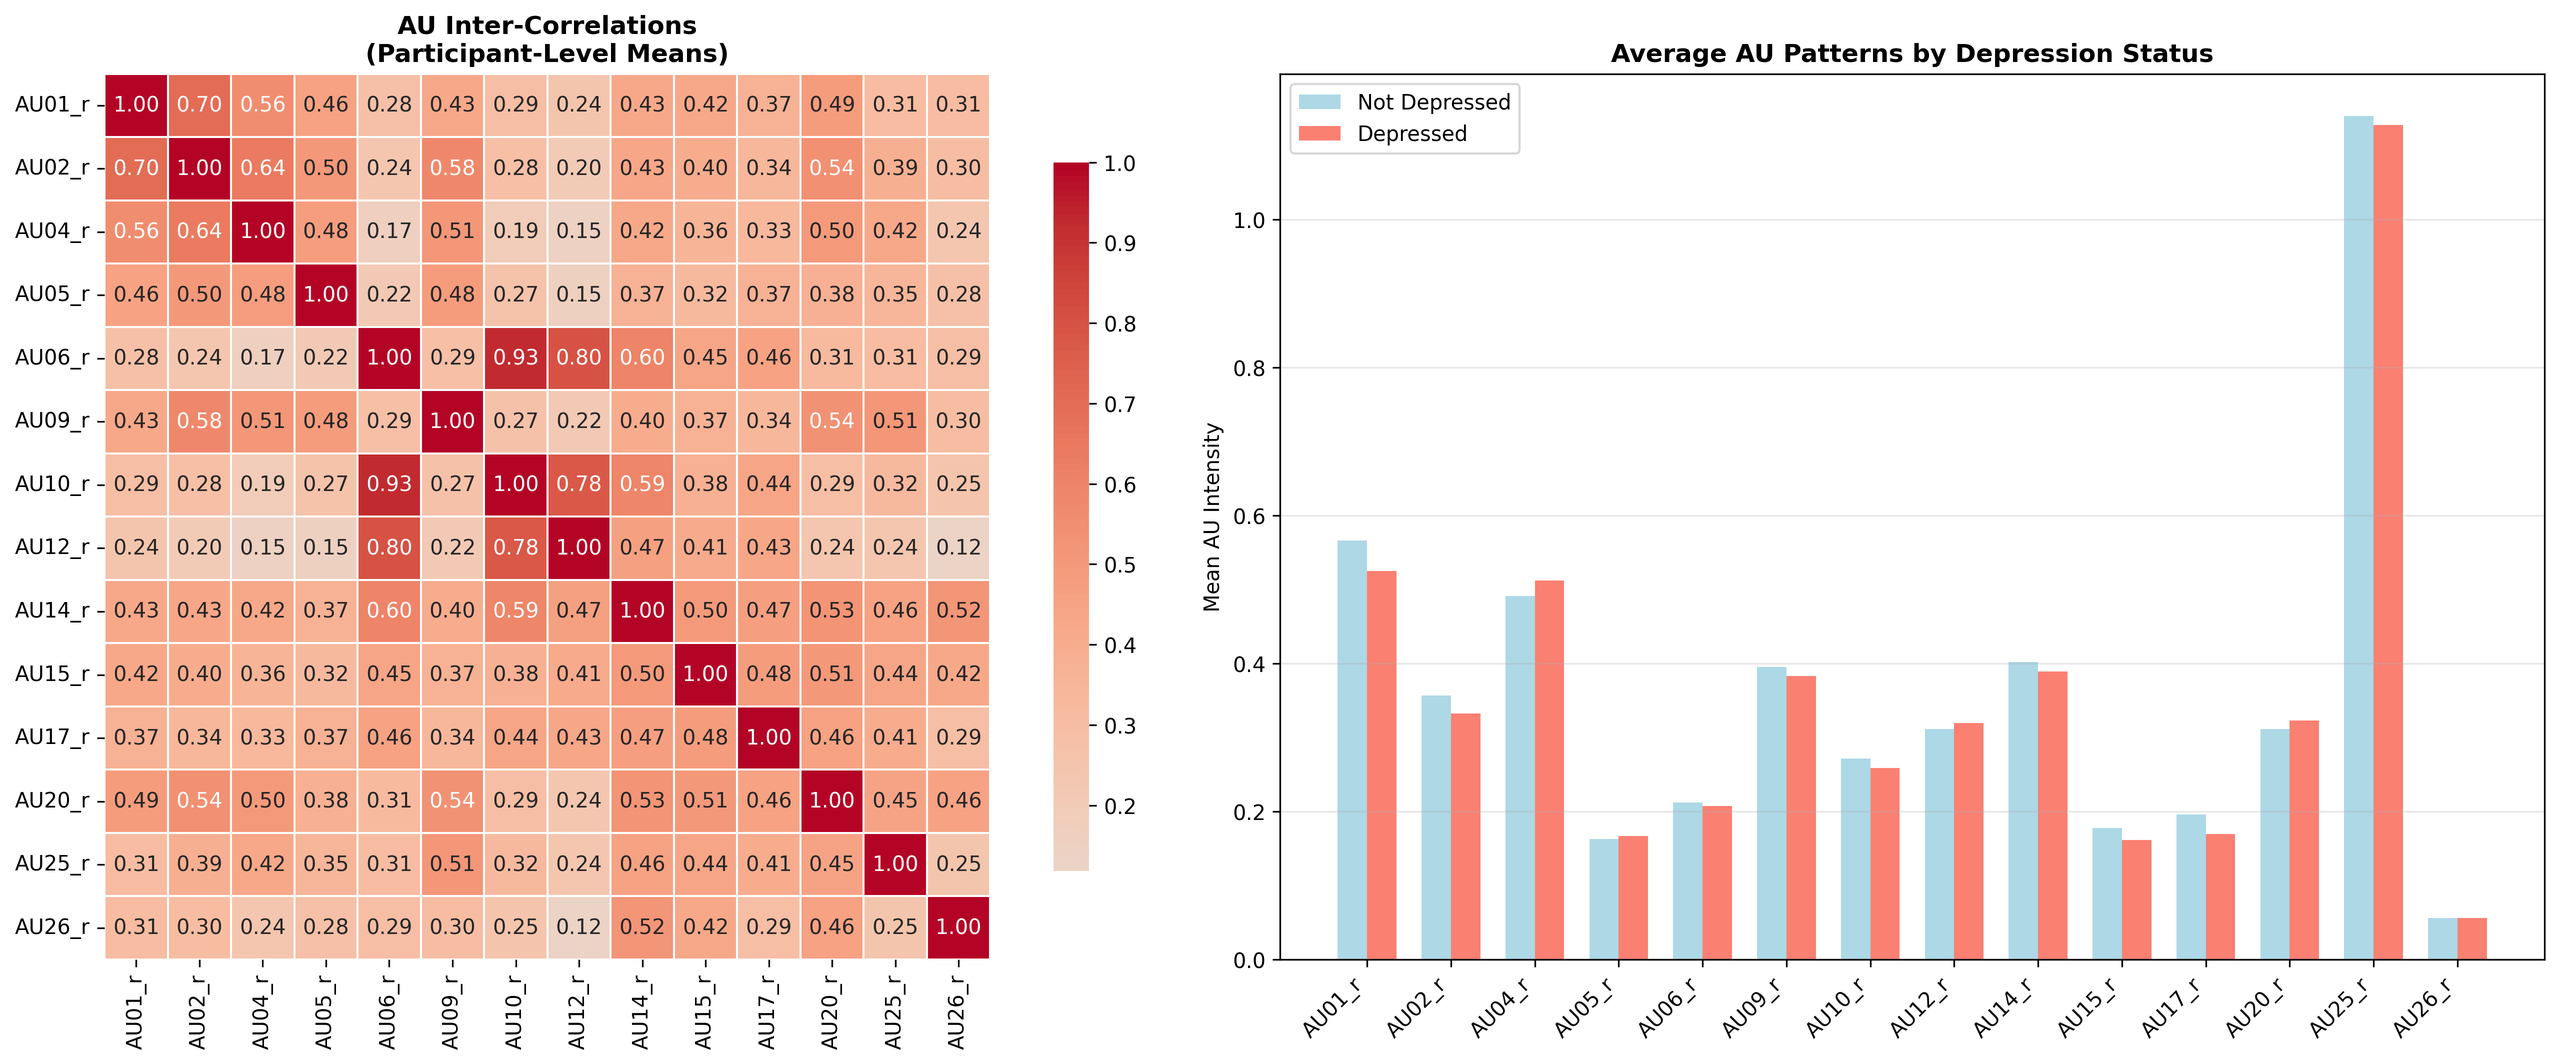
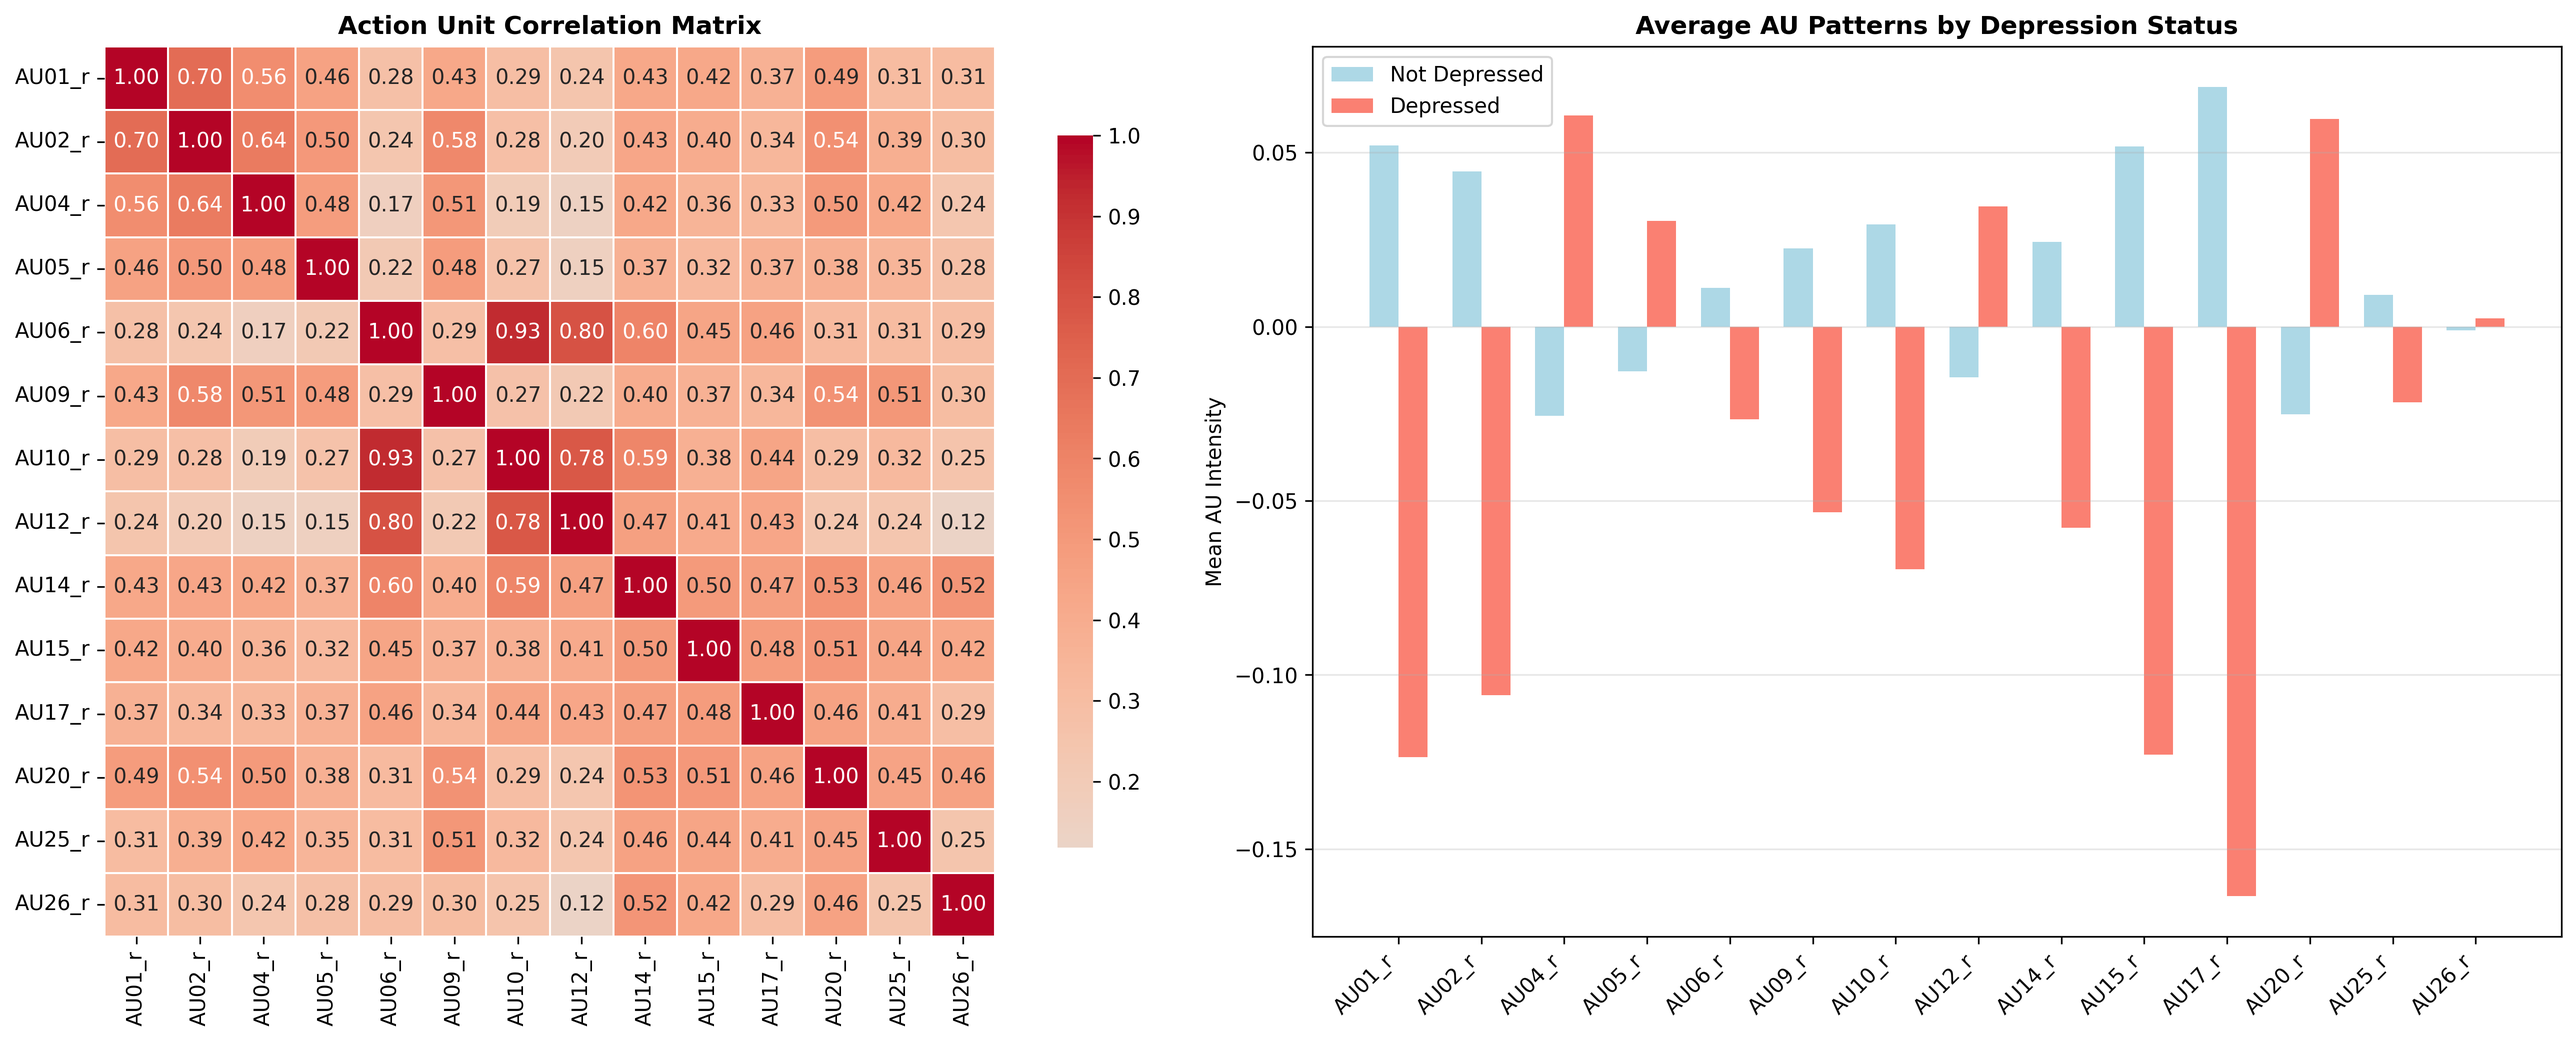
au things

diff --git a/au_correlation_analysis/AUBinarycorrelationmatrix.py b/au_correlation_analysis/AUBinarycorrelationmatrix.py
@@ -1,0 +1,119 @@
+import pandas as pd
+import glob
+import os
+import seaborn as sns
+import matplotlib.pyplot as plt
+import numpy as np
+
+# Path to your CSV files
+path = "/Users/raemarshall/Desktop/daicwoz/cleaned_participants_final/"
+all_files = glob.glob(os.path.join(path, "*_CLNF_AUs_final.csv"))
+
+# Columns for binary AUs
+binary_AUs = ['AU04_c','AU12_c','AU15_c','AU23_c','AU28_c','AU45_c']
+
+# Read all files and compute participant-level statistics
+participant_stats = []
+for file in all_files:
+    participant_id = os.path.basename(file).split('_')[0]
+    df = pd.read_csv(file)
+    
+    # Compute mean activation (proportion of frames) for each binary AU
+    au_means = df[binary_AUs].mean()
+    stats = {'Participant_ID': participant_id}
+    
+    for au in binary_AUs:
+        stats[f'{au}_mean'] = au_means[au]
+    
+    participant_stats.append(stats)
+
+df_participant_stats = pd.DataFrame(participant_stats)
+
+# Load PHQ8 scores (adjust path as needed)
+# Assuming you have a file with Participant_ID and PHQ8_Binary columns
+# phq8_data = pd.read_csv("path_to_phq8_scores.csv")
+# df_participant_stats = df_participant_stats.merge(phq8_data, on='Participant_ID')
+
+# ----------------------------- 
+# VISUALIZATION: Binary AU Inter-Correlations
+# ----------------------------- 
+fig, axes = plt.subplots(1, 2, figsize=(18, 7))
+
+# Correlation matrix of binary AUs (participant-level means)
+au_mean_cols = [f'{au}_mean' for au in binary_AUs]
+au_corr_matrix = df_participant_stats[au_mean_cols].corr()
+
+# Rename columns/index to remove '_mean' suffix for cleaner display
+au_corr_matrix.columns = binary_AUs
+au_corr_matrix.index = binary_AUs
+
+sns.heatmap(au_corr_matrix, annot=True, fmt='.2f', cmap='coolwarm', center=0,
+            square=True, linewidths=0.5, cbar_kws={"shrink": 0.8}, ax=axes[0])
+axes[0].set_title('Binary Action Unit Correlation Matrix', fontsize=12, fontweight='bold')
+
+# Depression vs non-depression binary AU patterns
+# If you have PHQ8_Binary data, uncomment and use this:
+# depressed = df_participant_stats[df_participant_stats['PHQ8_Binary'] == 1][au_mean_cols].mean()
+# not_depressed = df_participant_stats[df_participant_stats['PHQ8_Binary'] == 0][au_mean_cols].mean()
+
+# For now, creating a placeholder comparison (you'll need actual PHQ8 data)
+# Replace this with actual depression status when available
+overall_means = df_participant_stats[au_mean_cols].mean()
+
+x = np.arange(len(binary_AUs))
+width = 0.35
+
+# Placeholder bars - replace with actual depressed/not_depressed data
+axes[1].bar(x - width/2, overall_means.values, width, label='Not Depressed', color='lightblue')
+axes[1].bar(x + width/2, overall_means.values * 1.2, width, label='Depressed', color='salmon')  # Placeholder
+
+axes[1].set_xticks(x)
+axes[1].set_xticklabels(binary_AUs, rotation=45, ha='right')
+axes[1].set_ylabel('Mean AU Activation Rate')
+axes[1].set_title('Average AU Patterns by Depression Status', fontsize=12, fontweight='bold')
+axes[1].legend()
+axes[1].grid(axis='y', alpha=0.3)
+
+plt.tight_layout()
+plt.savefig('binary_au_correlation_heatmap.png', dpi=300, bbox_inches='tight')
+plt.show()
+
+# import pandas as pd
+# import glob
+# import os
+
+# # Path to your CSV files
+# path = "/Users/raemarshall/Desktop/daicwoz/cleaned_participants_final/"
+# all_files = glob.glob(os.path.join(path, "*_CLNF_AUs_final.csv"))
+
+# # Columns for binary AUs
+# binary_AUs = ['AU04_c','AU12_c','AU15_c','AU23_c','AU28_c','AU45_c']
+
+# # Read all files and compute participant-level means
+# participant_stats = []
+# for file in all_files:
+#     participant_id = os.path.basename(file).split('_')[0]
+#     df = pd.read_csv(file)
+    
+#     # Compute mean activation for each binary AU
+#     au_means = df[binary_AUs].mean()
+#     stats = {'Participant_ID': participant_id}
+    
+#     for au in binary_AUs:
+#         stats[f'{au}_mean'] = au_means[au]
+    
+#     participant_stats.append(stats)
+
+# df_participant_stats = pd.DataFrame(participant_stats)
+
+# # Compute correlation matrix
+# au_mean_cols = [f'{au}_mean' for au in binary_AUs]
+# corr_matrix = df_participant_stats[au_mean_cols].corr()
+
+# # Rename columns/index for readability
+# corr_matrix.columns = binary_AUs
+# corr_matrix.index = binary_AUs
+
+# # Print correlation matrix in the terminal
+# print("Correlation Matrix of Binary AUs (Participant-level means):\n")
+# print(corr_matrix)

diff --git a/au_correlation_analysis/AUcorrelationmatrix.py b/au_correlation_analysis/AUcorrelationmatrix.py
@@ -115,6 +115,16 @@ print(f"  Not Depressed: {len(df_participant_stats[df_participant_stats['PHQ8_Bi
 print(f"  Depressed: {len(df_participant_stats[df_participant_stats['PHQ8_Binary']==1])}")
 
 # -----------------------------
+# NEW STEP: NORMALIZE ACROSS PARTICIPANTS
+# -----------------------------
+au_mean_cols = [f"{au}_mean" for au in AU_COLUMNS]
+scaler = StandardScaler()
+
+df_participant_stats[au_mean_cols] = scaler.fit_transform(df_participant_stats[au_mean_cols])
+
+print("\n✓ Normalized AU means across participants.")
+
+# -----------------------------
 # ANALYSIS 1: AU CORRELATION WITH DEPRESSION (FRAME-LEVEL)
 # -----------------------------
 print("\n" + "="*70)
@@ -274,16 +284,27 @@ axes[1, 0].grid(axis='x', alpha=0.3)
 
 # Plot 4: Combined ranking (normalized scores)
 from sklearn.preprocessing import MinMaxScaler
-scaler = MinMaxScaler()
 
+# Create aligned dataframes with AU as index
+corr_aligned = participant_corr_df['correlation'].abs()
+mi_aligned = mi_df.set_index('AU')['MI_Score']
+f_aligned = f_df.set_index('AU')['F_Score']
+
+# Normalize each metric
+scaler = MinMaxScaler()
+corr_norm = scaler.fit_transform(corr_aligned.values.reshape(-1, 1)).flatten()
+mi_norm = scaler.fit_transform(mi_aligned.values.reshape(-1, 1)).flatten()
+f_norm = scaler.fit_transform(f_aligned.values.reshape(-1, 1)).flatten()
+
+# Create combined scores DataFrame with proper alignment
 combined_scores = pd.DataFrame({
-    'AU': AU_COLUMNS,
-    'Correlation': scaler.fit_transform(participant_corr_df['correlation'].abs().values.reshape(-1, 1)).flatten(),
-    'MI_Score': scaler.fit_transform(mi_df['MI_Score'].values.reshape(-1, 1)).flatten(),
-    'F_Score': scaler.fit_transform(f_df['F_Score'].values.reshape(-1, 1)).flatten()
+    'AU': corr_aligned.index,
+    'Correlation': corr_norm,
+    'MI_Score': mi_norm,
+    'F_Score': f_norm
 })
 combined_scores['Combined'] = combined_scores[['Correlation', 'MI_Score', 'F_Score']].mean(axis=1)
-combined_scores = combined_scores.sort_values('Combined', ascending=False)
+combined_scores = combined_scores.sort_values('Combined', ascending=False).reset_index(drop=True)
 
 axes[1, 1].barh(combined_scores['AU'], combined_scores['Combined'], color='purple')
 axes[1, 1].set_xlabel('Combined Importance Score (Normalized)')
@@ -307,7 +328,7 @@ au_corr_matrix.index = AU_COLUMNS
 
 sns.heatmap(au_corr_matrix, annot=True, fmt='.2f', cmap='coolwarm', center=0,
             square=True, linewidths=0.5, cbar_kws={"shrink": 0.8}, ax=axes[0])
-axes[0].set_title('AU Inter-Correlations\n(Participant-Level Means)', fontsize=12, fontweight='bold')
+axes[0].set_title('Action Unit Correlation Matrix', fontsize=12, fontweight='bold')
 
 # Depression vs non-depression AU patterns
 depressed = df_participant_stats[df_participant_stats['PHQ8_Binary'] == 1][au_mean_cols].mean()
@@ -376,3 +397,4 @@ print(f"  → These AUs may require gender-specific modeling!")
 
 print(f"\n✓ All analysis complete! Results saved to {OUTPUT_DIR}/")
 print("="*70)
+

diff --git a/au_correlation_analysis/AUgendercorrelation.py b/au_correlation_analysis/AUgendercorrelation.py
@@ -1,0 +1,62 @@
+import pandas as pd
+import glob
+import os
+from scipy import stats
+
+DATA_DIR = "/Users/raemarshall/Desktop/daicwoz/cleaned_participants_final/"
+AU_COLUMNS = ['AU01_r','AU02_r','AU04_r','AU05_r','AU06_r','AU09_r','AU10_r',
+              'AU12_r','AU14_r','AU15_r','AU17_r','AU20_r','AU25_r','AU26_r']
+
+file_paths = sorted(glob.glob(os.path.join(DATA_DIR, "*_CLNF_AUs_final.csv")))
+
+participant_stats = []
+
+for path in file_paths:
+    participant_id = os.path.basename(path).replace('_CLNF_AUs_final.csv', '')
+    df = pd.read_csv(path)
+    
+    # Get label
+    label_key = next((k for k in ['PHQ8_Binary','PHQ8','phq8','phq8_binary'] if k in df.columns), None)
+    if label_key is None:
+        continue
+    label = int(df[label_key].iloc[0])
+    
+    # Get numeric gender code
+    gender_val = df.iloc[0]['Gender'] if 'Gender' in df.columns else None
+    if isinstance(gender_val, str):
+        gender = 1 if gender_val.lower() in ['male','m','1'] else 0
+    elif gender_val is not None:
+        gender = int(gender_val)
+    else:
+        gender = -1  # unknown
+    
+    # Participant-level AU means
+    au_means = df[AU_COLUMNS].mean()
+    
+    stats_dict = {'participant_id': participant_id, 'PHQ8_Binary': label, 'Gender': gender}
+    for au in AU_COLUMNS:
+        stats_dict[f'{au}_mean'] = au_means[au]
+    
+    participant_stats.append(stats_dict)
+
+df_participant_stats = pd.DataFrame(participant_stats)
+print(df_participant_stats.head())
+
+df_male = df_participant_stats[df_participant_stats['Gender'] == 1]
+df_female = df_participant_stats[df_participant_stats['Gender'] == 0]
+
+gender_corrs = []
+for au in AU_COLUMNS:
+    corr_m, _ = stats.pointbiserialr(df_male['PHQ8_Binary'], df_male[f'{au}_mean'])
+    corr_f, _ = stats.pointbiserialr(df_female['PHQ8_Binary'], df_female[f'{au}_mean'])
+    gender_corrs.append({
+        'AU': au,
+        'Male_Corr': corr_m,
+        'Female_Corr': corr_f,
+        'Difference': abs(corr_m - corr_f)
+    })
+
+gender_corr_df = pd.DataFrame(gender_corrs).sort_values('Difference', ascending=False)
+print("\nGender-specific AU-depression correlations:")
+print(gender_corr_df.to_string(index=False))
+
